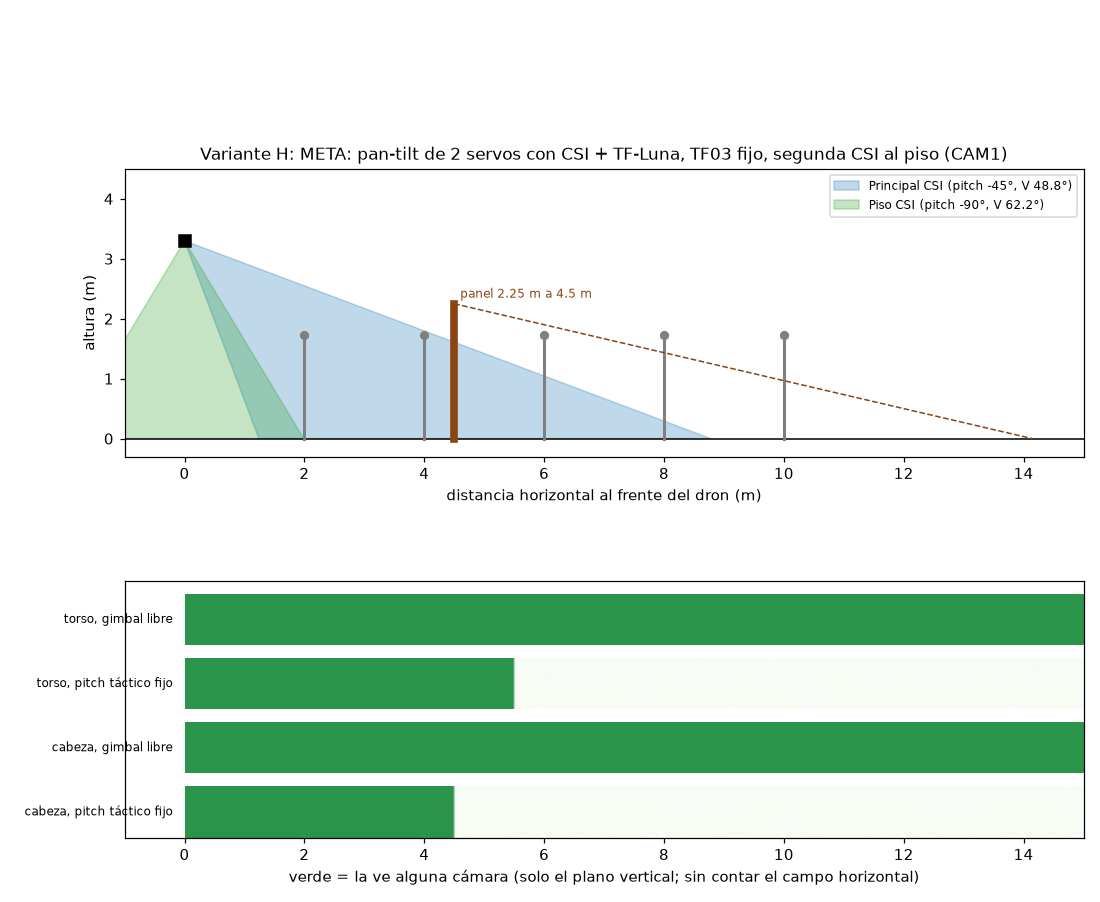
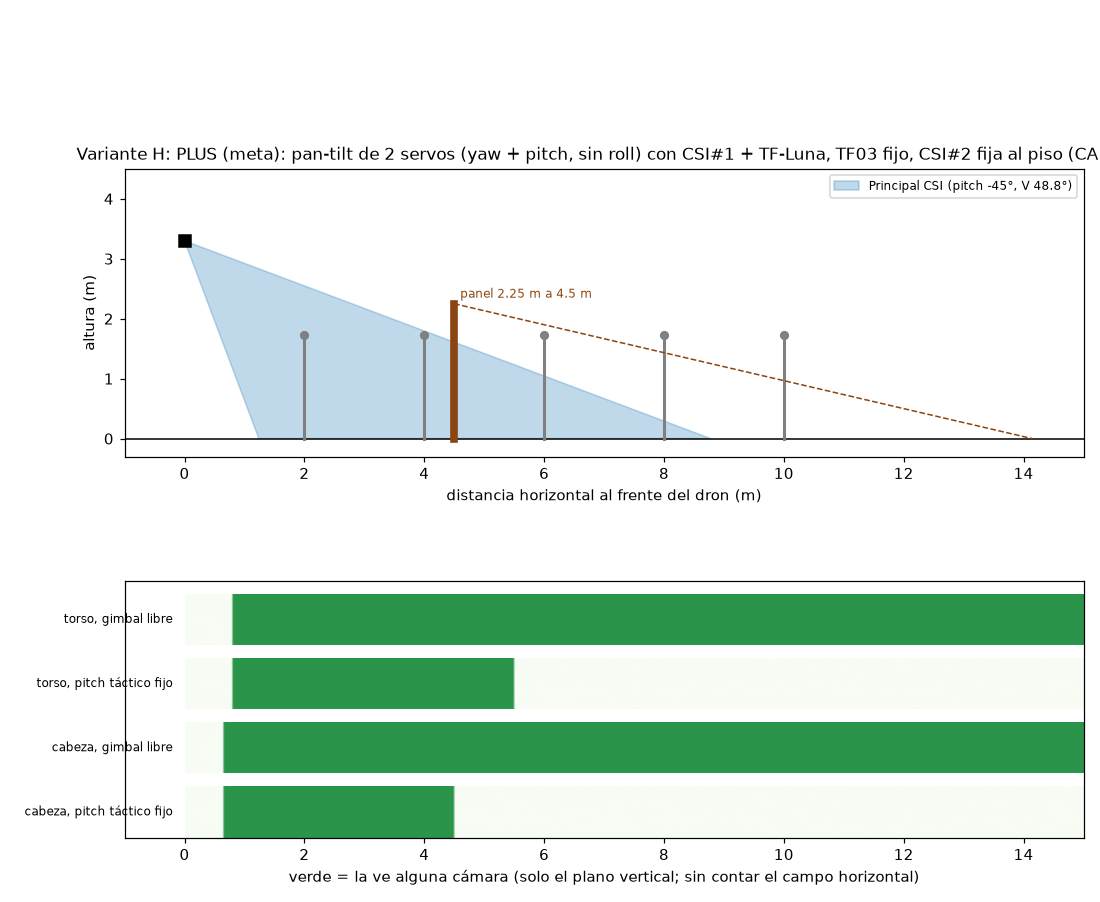
Hardware y variantes: combinación de sensores a 1.7-2.6 m; CSI#2 pasa a mirar atrás en variante_H

diff --git a/05_HARDWARE_Y_VARIANTES/COBERTURA.md b/05_HARDWARE_Y_VARIANTES/COBERTURA.md
@@ -4,6 +4,25 @@ Análisis **geométrico** (sin simulación): qué ve cada variante a 3.30 m de a
 2.25 m. Se regenera con `03_SIMULACION_RL\.venv\Scripts\python.exe analisis_cobertura.py` (lee los `config_sim/variante_*.json`). El campo
 del IMX219 (62.2° × 48.8°) es **nominal, sin medir**; las alturas de cabeza (1.62 m) y torso (1.25 m) de una persona de 1.72 m son **estimadas**.
 
+## Combinación de sensores a 1.7–2.6 m (21-oct; pedido de Brahian, `ORDENES_BRAHIAN_20OCT.md` §A y §E)
+
+Dron a 1.7, 2.0, 2.6 y 3.30 m; persona de 1.72 m (torso a 1.25 m, estimado). Cámaras IMX219 62.2° × 48.8° (nominal); TF03 a −5° con haz de 0.5° (de memoria; alcance 30 m).
+
+| Altura | Cámara del pan-tilt (tilt −45°): ciega bajo el dron hasta (suelo / torso) | CSI#2 **al piso**: huella en el suelo / a la altura del torso | CSI#2 **atrás −15°** (lado largo horizontal): ve el torso desde / el suelo desde | CSI#2 abajo-atrás −45°: torso entre / suelo entre | TF03 −5°: da en una persona de pie desde (cabeza / torso) y en un panel de 2.25 m desde |
+|---|---|---|---|---|---|
+| **1.7 m** | 0.64 m / 0.17 m | 2.1 × 1.5 m / 0.5 × 0.4 m | 0.55 m / 2.1 m | 0.1–1.8 m / 0.4–6.9 m | 0 m / 5.1 m · panel 0 m |
+| **2.0 m** | 0.75 m / 0.28 m | 2.4 × 1.8 m / 0.9 × 0.7 m | 0.91 m / 2.4 m | 0.2–3.0 m / 0.5–8.1 m | 3.2 m / 8.6 m · panel 0 m |
+| **2.6 m** | 0.98 m / 0.51 m | 3.1 × 2.4 m / 1.6 × 1.2 m | 1.6 m / 3.2 m | 0.3–5.5 m / 0.6–10.5 m | 10.1 m / 15.4 m · panel 4.0 m |
+| **3.30 m** | 1.24 m / 0.77 m | 4.0 × 3.0 m / 2.5 × 1.9 m | 2.5 m / 4.0 m | 0.5–8.3 m / 0.8–13.3 m | 18.1 m / 23.4 m · panel 12 m |
+
+- **Azimut:** el pan-tilt (±89° + 31.1°) cubre **240°** y deja **120°** atrás sin ver. Una CSI#2 **atrás** suma 62° y deja **57° ciegos** (dos cuñas de 29°, a ±150°); abajo-atrás o al piso no suman casi nada en azimut.
+- **CSI#2 al piso sirve poco a esta altura:** a 2.0 m el torso solo cae en una huella de 0.9 × 0.7 m; solo protege lo que está justo debajo.
+- **TF03 a −5° y 2.0 m no da en la persona hasta los 3.2 m** (antes el haz pasa sobre la cabeza); a 2.6 m, hasta los 10 m. Con paneles de 2.25 m **sí da** desde 0 m a 2.0 m. El frenado LiDAR (< 3 m) **no protege de personas** a 2.6 m: lo cubre la cámara y el árbitro.
+- **TF-Luna** en el pan-tilt, siguiendo al ladrón a 4–6 m: con ropa clara (ρ≈0.5) ve hasta 6 m, **media** (ρ≈0.3) hasta 4.6 m, **oscura** (ρ≈0.1) solo hasta 2.7 m (interpolación mía sobre dos datos de hoja de datos). **No es fiable como única distancia**: la principal es la de la caja de YOLO + Kalman; el Luna confirma cuando hay retorno.
+
+**Recomendación (una combinación):** **CSI#1 + TF-Luna en el pan-tilt; CSI#2 fija MIRANDO ATRÁS** (pitch −15°, lado largo horizontal, bajo la placa trasera); **TF03 frontal fijo a −5°**; volar a **2.0 m** de base (sube a 3.30 m solo con el ladrón cerca). Razones con números: cubre **302° de azimut** (contra 240°) con una cámara que a 2.0 m ve el torso desde 0.9 m; la del piso a 2.0 m ve 0.9 × 0.7 m y el pan-tilt ya cubre el suelo desde 0.75 m. El TF03 queda para paneles y obstáculos grandes (los ve desde 0 m a 2.0 m).
+Posición provisional (sin medir) en `variante_H.json`: `CAM_TRASERA_ACTIVA`, `CAM_TRASERA_PITCH` (−15°), `CAM_TRASERA_AZIMUT` (180°), `CAM_TRASERA_PUERTO` (CAM1), `MONTAJE_CSI2_TRASERA_M` (−0.095, 0, −0.030 m); `CAM_PISO_ACTIVA` queda en `false`. **Riesgo:** una cámara que mira atrás ve patas, brazos y quizá hélices: probar el encuadre al montarla.
+
 ## Lo que dice, en sencillo (actualizado 2026-10-20, D-072)
 
 **Hoy el dron es la variante G** (CSI fija a −5° + TF03 fijo, sin gimbal ni USB) **y la meta es la H** (pan-tilt con CSI + TF-Luna, TF03 fijo, segunda CSI al
@@ -47,7 +66,7 @@ Supuestos: dron a **3.3 m**; persona de pie de **1.72 m** (cabeza = centro a 1.6
 | **E** | Principal USB (-45°) + Piso CSI (-90°) | 0.0–2.9 m | 0.0–más de 15 m | 0.0–más de 15 m | 0.0 m |
 | **F** | Principal USB (-45°) + Piso CSI (-90°) + Frontal ancha CSI (0°) | 0.0–2.9 m; 3.7–más de 15 m | 0.0–más de 15 m | 0.0–más de 15 m | 0.0 m |
 | **G** | Principal CSI (-5°) | 3.0–más de 15 m | 3.0–más de 15 m | 3.6–más de 15 m | 5.9 m |
-| **H** | Principal CSI (-45°) + Piso CSI (-90°) | 0.0–4.5 m | 0.0–más de 15 m | 0.0–más de 15 m | 0.0 m |
+| **H** | Principal CSI (-45°) | 0.6–4.5 m | 0.6–más de 15 m | 0.8–más de 15 m | 1.2 m |
 
 ### Cámara al piso: huella a 3.30 m
 

diff --git a/05_HARDWARE_Y_VARIANTES/cobertura/tablas.md b/05_HARDWARE_Y_VARIANTES/cobertura/tablas.md
@@ -15,7 +15,7 @@ Supuestos: dron a **3.3 m**; persona de pie de **1.72 m** (cabeza = centro a 1.6
 | **E** | Principal USB (-45°) + Piso CSI (-90°) | 0.0–2.9 m | 0.0–más de 15 m | 0.0–más de 15 m | 0.0 m |
 | **F** | Principal USB (-45°) + Piso CSI (-90°) + Frontal ancha CSI (0°) | 0.0–2.9 m; 3.7–más de 15 m | 0.0–más de 15 m | 0.0–más de 15 m | 0.0 m |
 | **G** | Principal CSI (-5°) | 3.0–más de 15 m | 3.0–más de 15 m | 3.6–más de 15 m | 5.9 m |
-| **H** | Principal CSI (-45°) + Piso CSI (-90°) | 0.0–4.5 m | 0.0–más de 15 m | 0.0–más de 15 m | 0.0 m |
+| **H** | Principal CSI (-45°) | 0.6–4.5 m | 0.6–más de 15 m | 0.8–más de 15 m | 1.2 m |
 
 ## Cámara al piso: huella a 3.30 m
 
